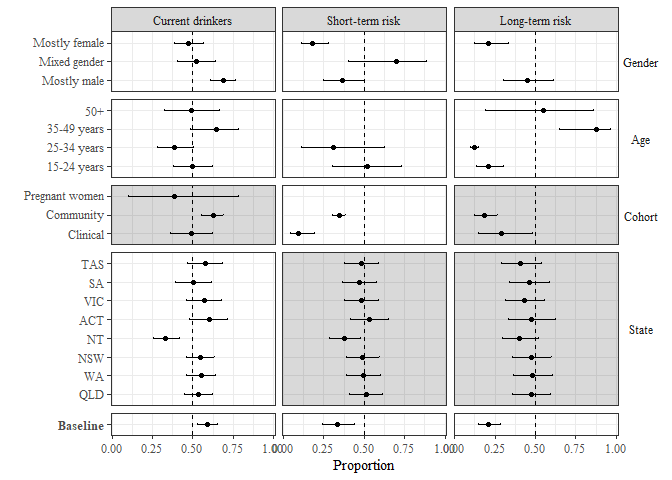
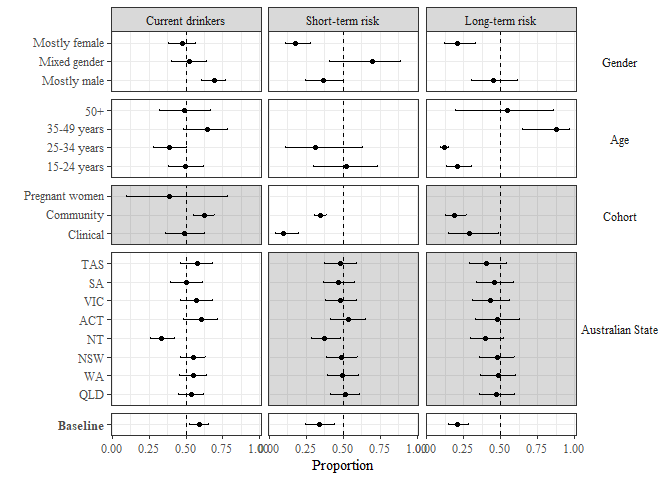
readme include variable change

diff --git a/README.md b/README.md
@@ -280,7 +280,11 @@ useful to compare all outcomes and moderators simultaneously. A
 moderation matrix function is supplied for this.
 
 ``` r
-mods <- msemtools::moderation_instructions(Gender, Age, Cohort, State)
+mods <-
+  msemtools::moderation_instructions(Gender,
+                                     Age,
+                                     Cohort,
+                                     "Australian State" = State)
 
 mod1 <- meta3(drink_yi, drink_vi, study_id, data = conigrave20) %>% 
   moderate(moderators = mods)
